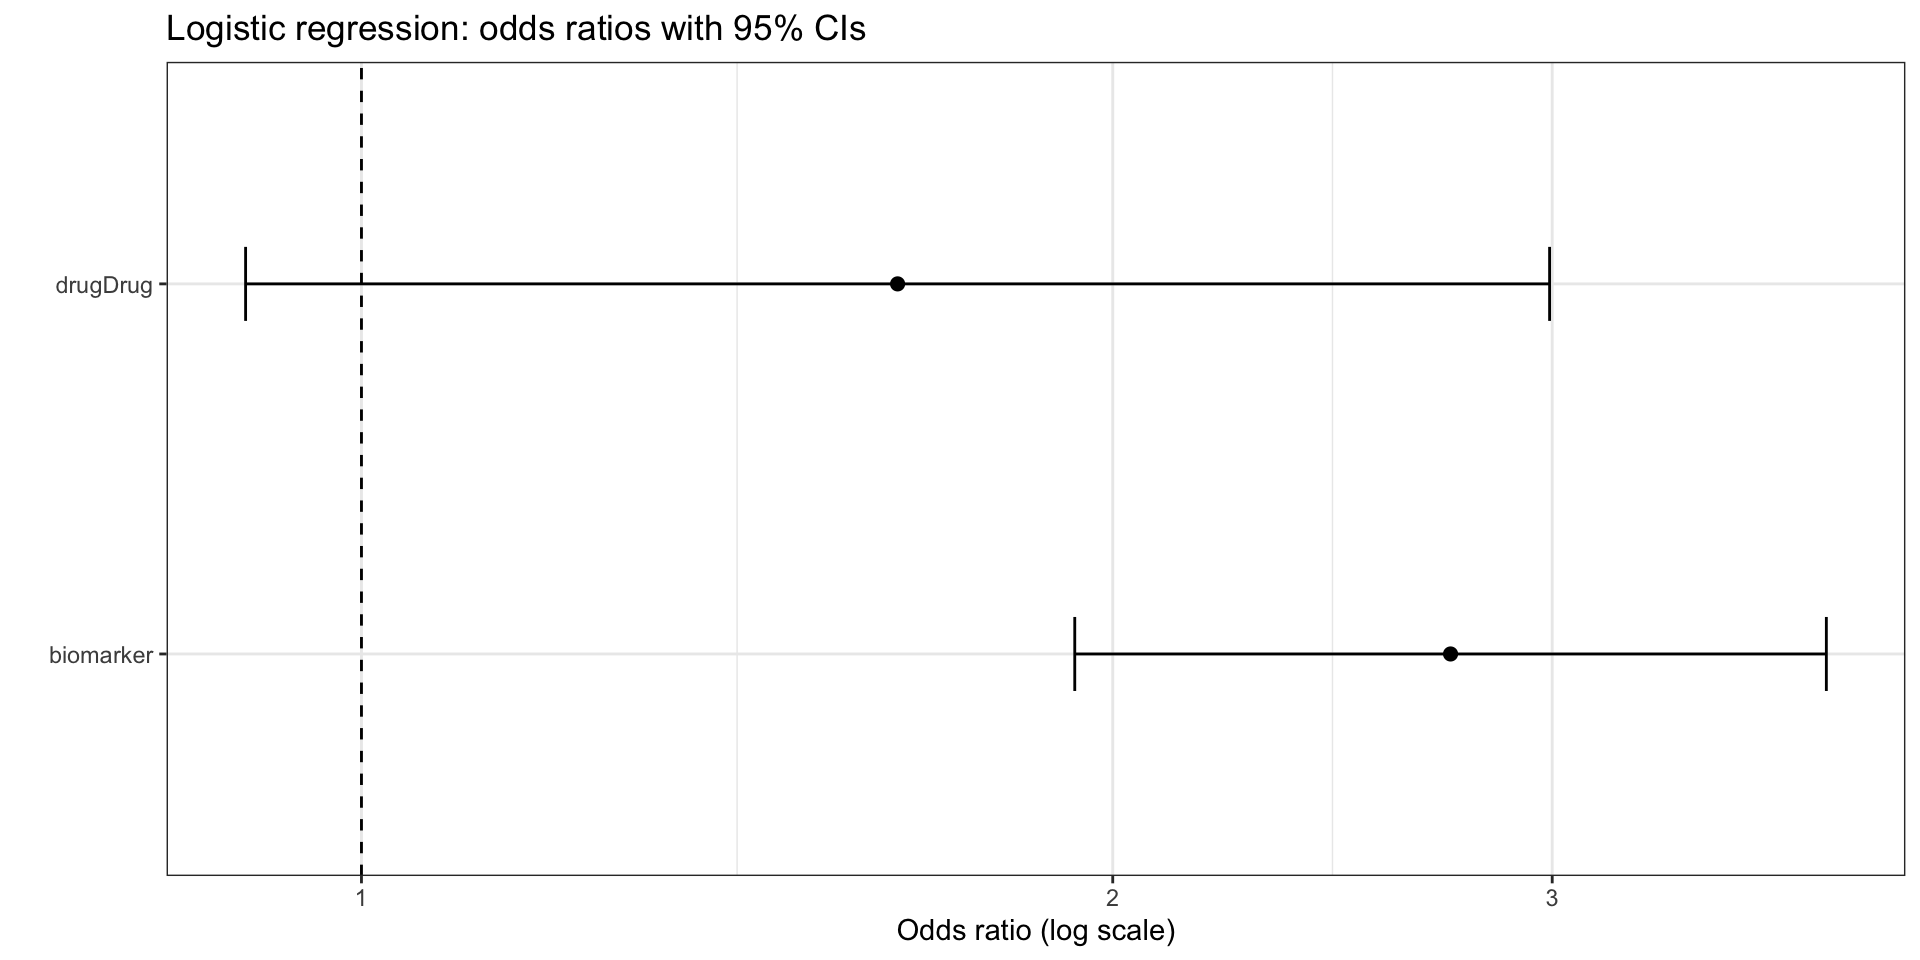
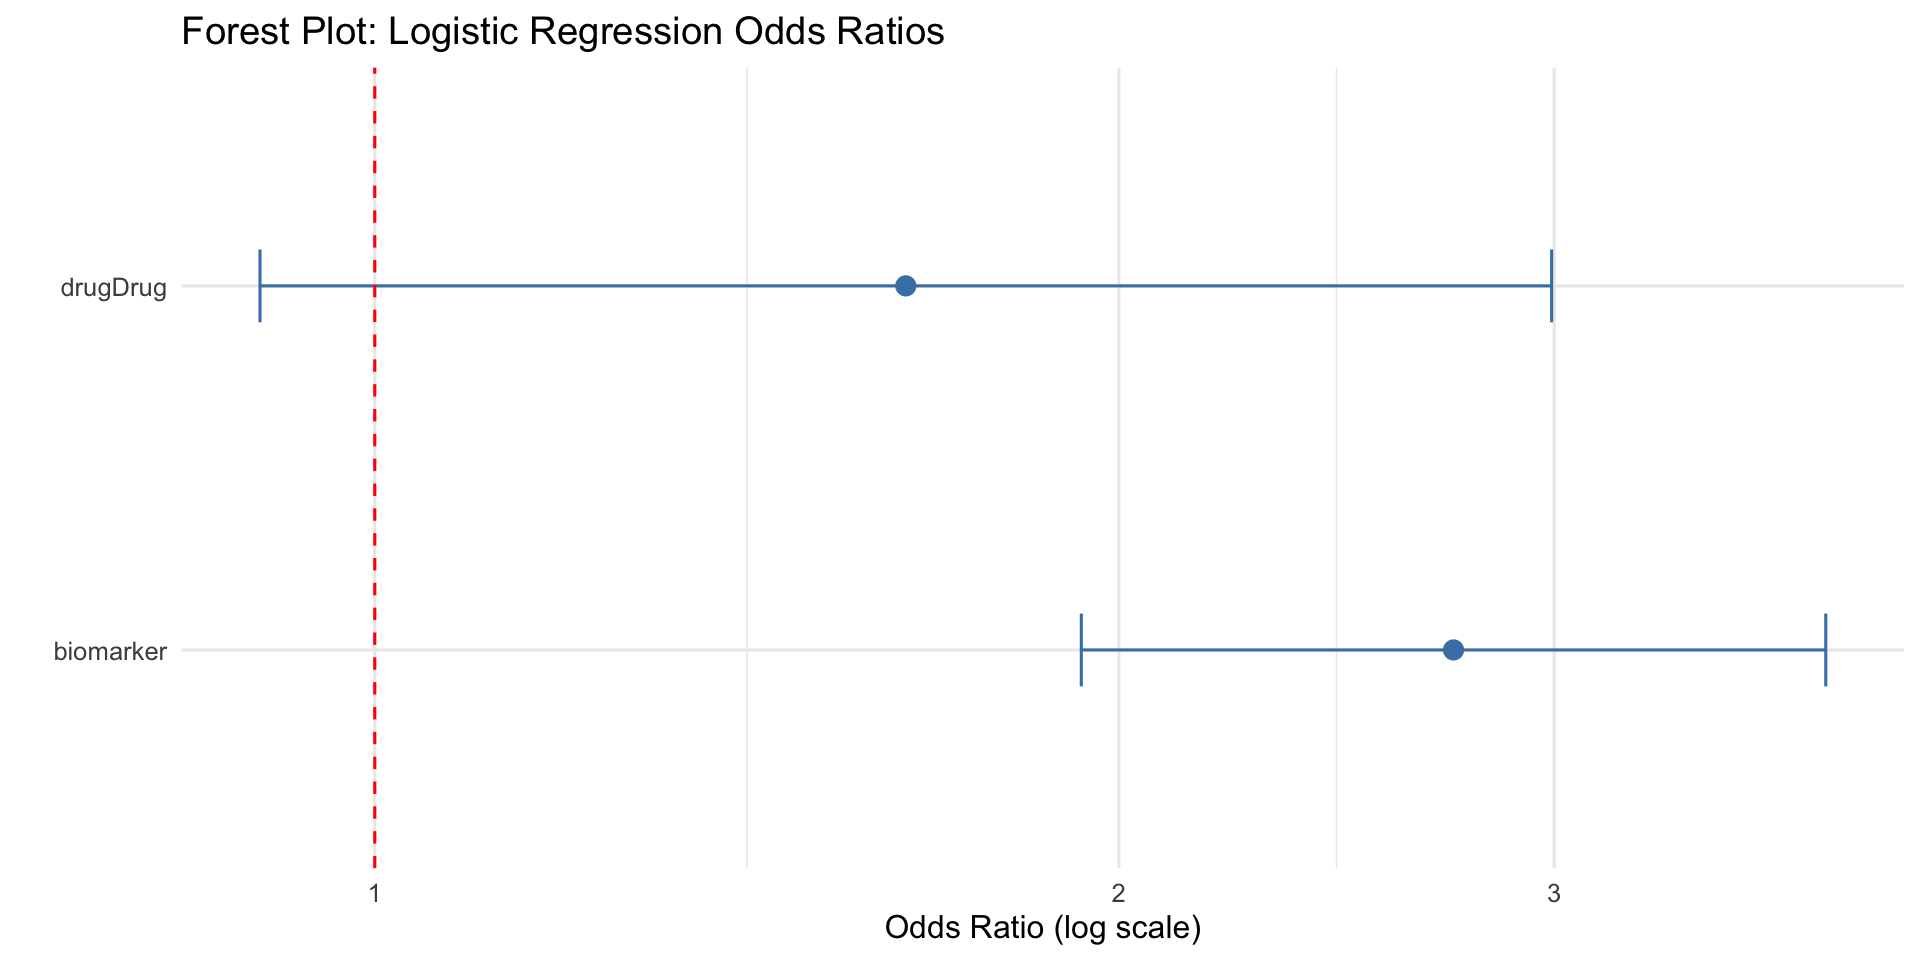
Added lecture files

diff --git a/index.html b/index.html
@@ -724,6 +724,21 @@ log(odds)=β_0 +β_1Drug+β_2Biomarker
 <ul>
 <li>odds ratios [points] with 95% confidence intervals [horizontal lines]</li>
 </ul>
+<div class="cell">
+<div class="cell-output-display">
+<div>
+<figure>
+<p><img data-src="test_2_082025_files/figure-revealjs/unnamed-chunk-16-1.png" width="960"></p>
+</figure>
+</div>
+</div>
+</div>
+</div>
+</section>
+<section id="forest-plot-logistic-regression-odds-ratios-2" class="slide level2">
+<h2>Forest plot: logistic regression odds ratios</h2>
+<div style="font-size:0.5em">
+<p>A forest plot summarizes effect sizes on an odds-ratio scale</p>
 <p>Interpretation:</p>
 <ul>
 <li>points to the right of 1 increase odds of response [left of 1 decrease odds]</li>

diff --git a/test_2_082025.html b/test_2_082025.html
@@ -724,6 +724,21 @@ log(odds)=β_0 +β_1Drug+β_2Biomarker
 <ul>
 <li>odds ratios [points] with 95% confidence intervals [horizontal lines]</li>
 </ul>
+<div class="cell">
+<div class="cell-output-display">
+<div>
+<figure>
+<p><img data-src="test_2_082025_files/figure-revealjs/unnamed-chunk-16-1.png" width="960"></p>
+</figure>
+</div>
+</div>
+</div>
+</div>
+</section>
+<section id="forest-plot-logistic-regression-odds-ratios-2" class="slide level2">
+<h2>Forest plot: logistic regression odds ratios</h2>
+<div style="font-size:0.5em">
+<p>A forest plot summarizes effect sizes on an odds-ratio scale</p>
 <p>Interpretation:</p>
 <ul>
 <li>points to the right of 1 increase odds of response [left of 1 decrease odds]</li>
